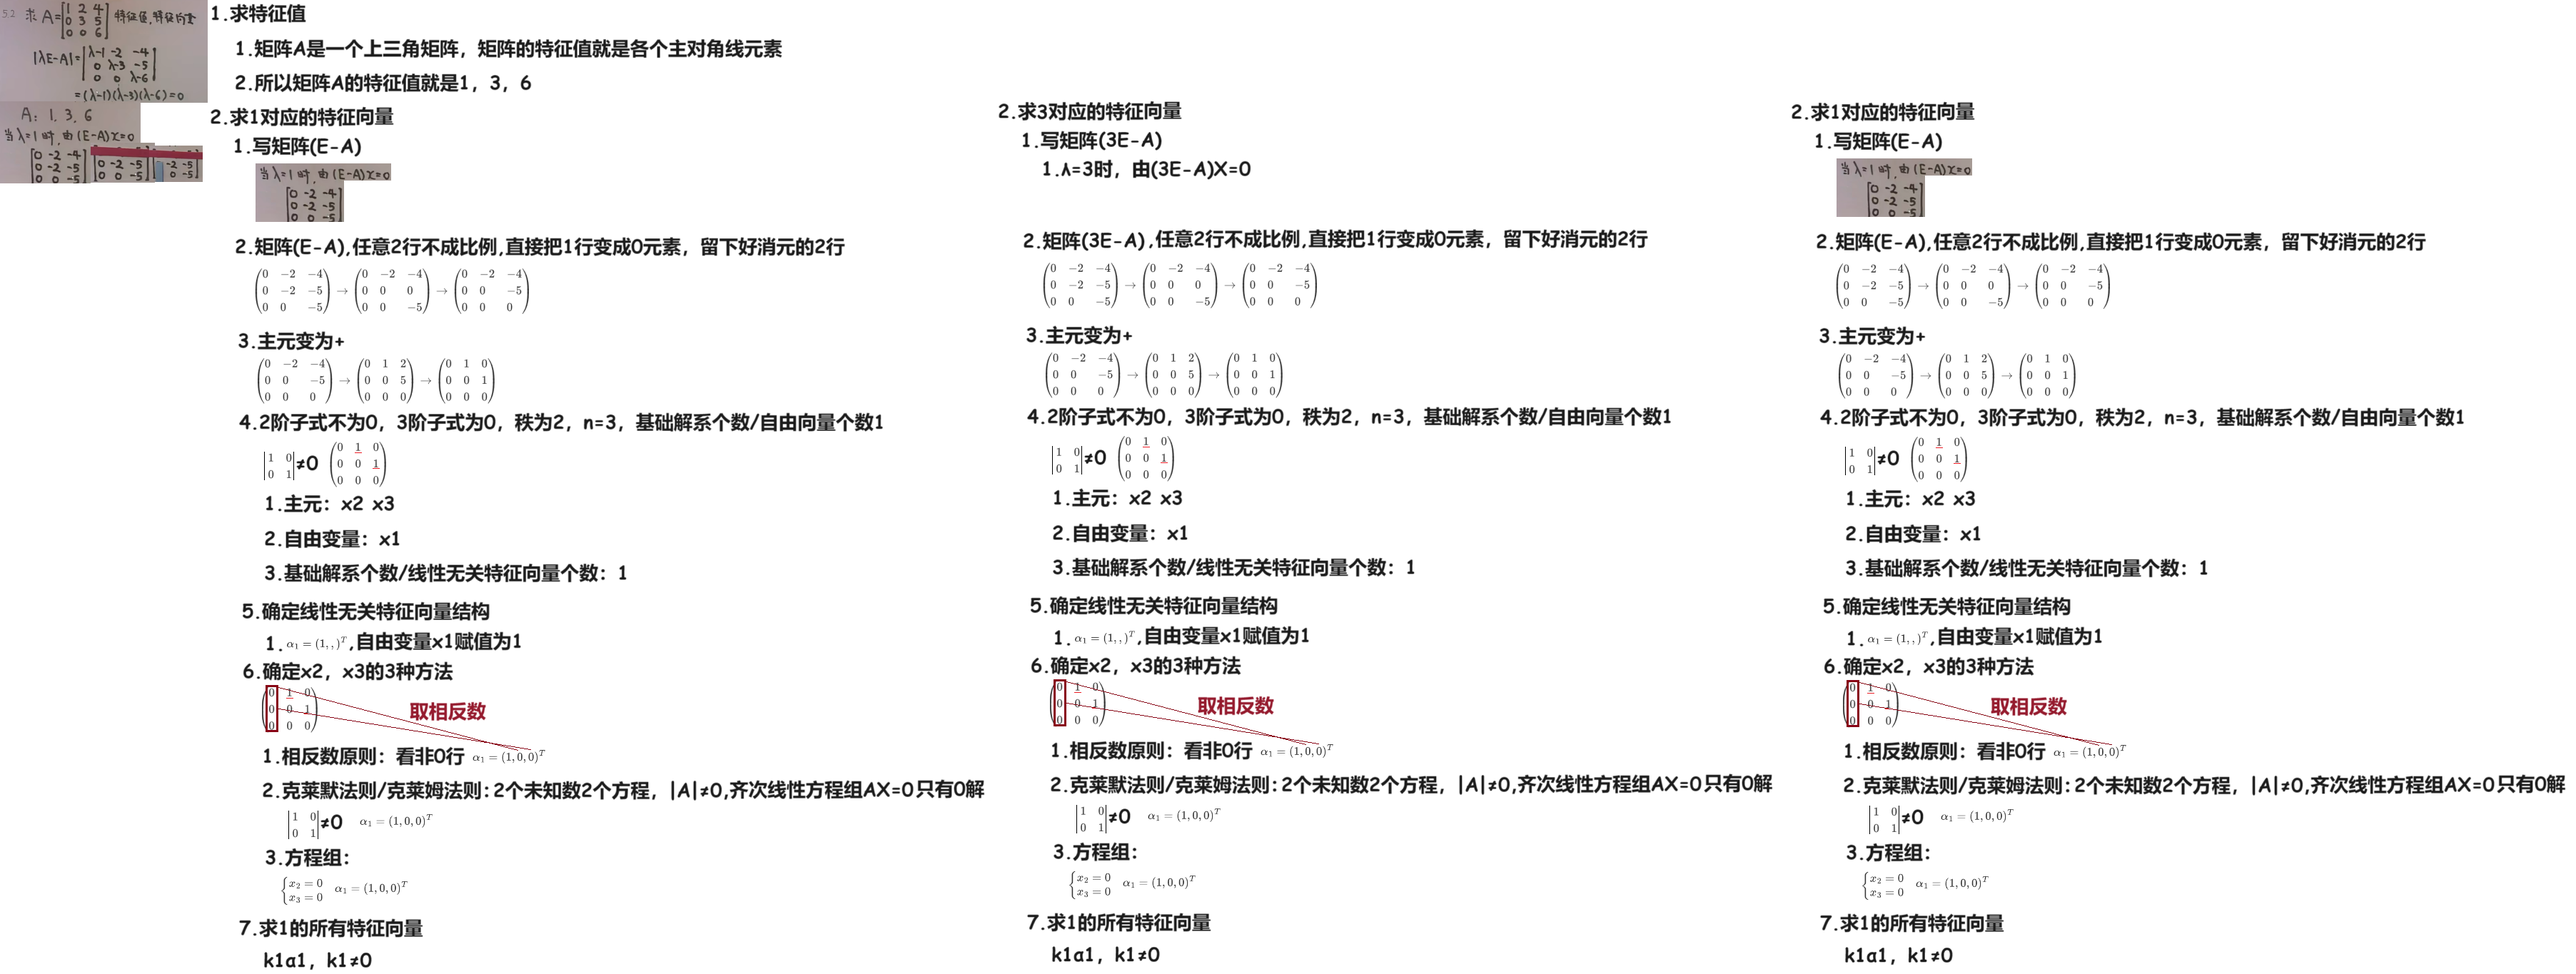
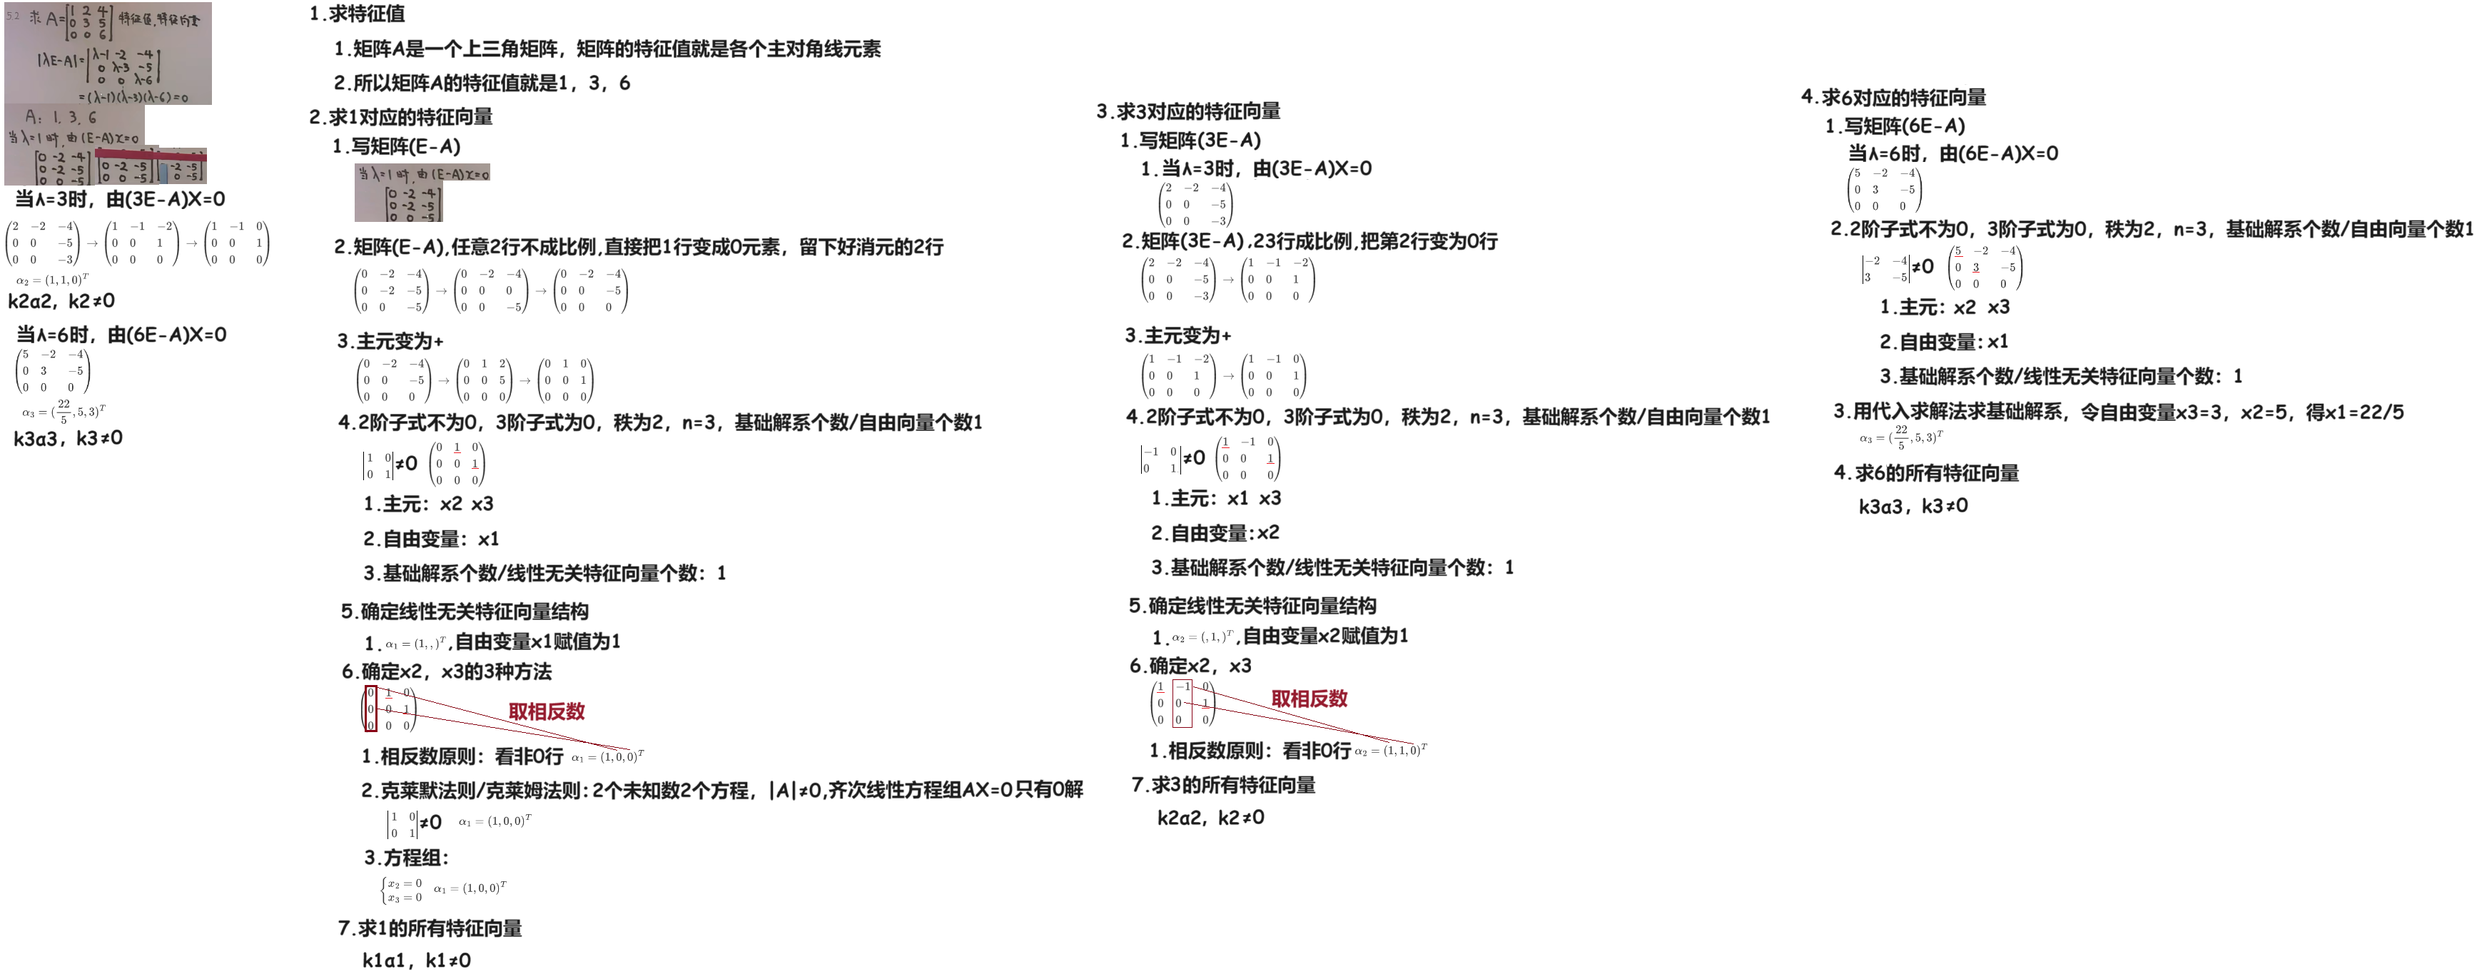
240311

diff --git a/02 线代/04 24李永乐强化/02 特征值 特征向量 240311/01 知识点/02 Doc.md b/02 线代/04 24李永乐强化/02 特征值 特征向量 240311/01 知识点/02 Doc.md
@@ -1,3 +1,3 @@
 # 特征值 特征向量
 
-<img src="https://cvp.oss-cn-shanghai.aliyuncs.com/picgo/202403111117125.png" alt="image-20240311111727252" style="zoom:50%;" />
+<img src="https://cvp.oss-cn-shanghai.aliyuncs.com/picgo/202403111446574.png" alt="image-20240311144656739" style="zoom:50%;" />

diff --git a/02 线代/01 题集/02 专题/02 求特征值 特征向量 240311/01 24李永乐强化/02 上下三角矩阵 求特征值 特征向量 240311/02 Doc.md b/02 线代/01 题集/02 专题/02 求特征值 特征向量 240311/01 24李永乐强化/02 上下三角矩阵 求特征值 特征向量 240311/02 Doc.md
@@ -3,3 +3,5 @@
 <img src="https://cvp.oss-cn-shanghai.aliyuncs.com/picgo/202403110859645.png" alt="image-20240311085900554" style="zoom:67%;" />
 
 # 02 答案
+
+<img src="https://cvp.oss-cn-shanghai.aliyuncs.com/picgo/202403111449898.png" alt="image-20240311144940331" style="zoom:50%;" />

diff --git a/02 线代/02 知识点/03 特征值 特征向量 【24李永乐强化】【其他】240311/01 24李永乐强化/02 Doc.md b/02 线代/02 知识点/03 特征值 特征向量 【24李永乐强化】【其他】240311/01 24李永乐强化/02 Doc.md
@@ -1,0 +1,3 @@
+# 特征值 特征向量
+
+<img src="https://cvp.oss-cn-shanghai.aliyuncs.com/picgo/202403111448472.png" alt="image-20240311144818601" style="zoom:50%;" />

diff --git a/02 线代/02 知识点/03 特征值 特征向量 【24李永乐强化】【其他】240311/02 其他/02 Doc.md b/02 线代/02 知识点/03 特征值 特征向量 【24李永乐强化】【其他】240311/02 其他/02 Doc.md
@@ -1,0 +1,3 @@
+# 特征值与特征向量
+
+<img src="https://cvp.oss-cn-shanghai.aliyuncs.com/picgo/202403071621879.png" style="zoom: 50%;" />
